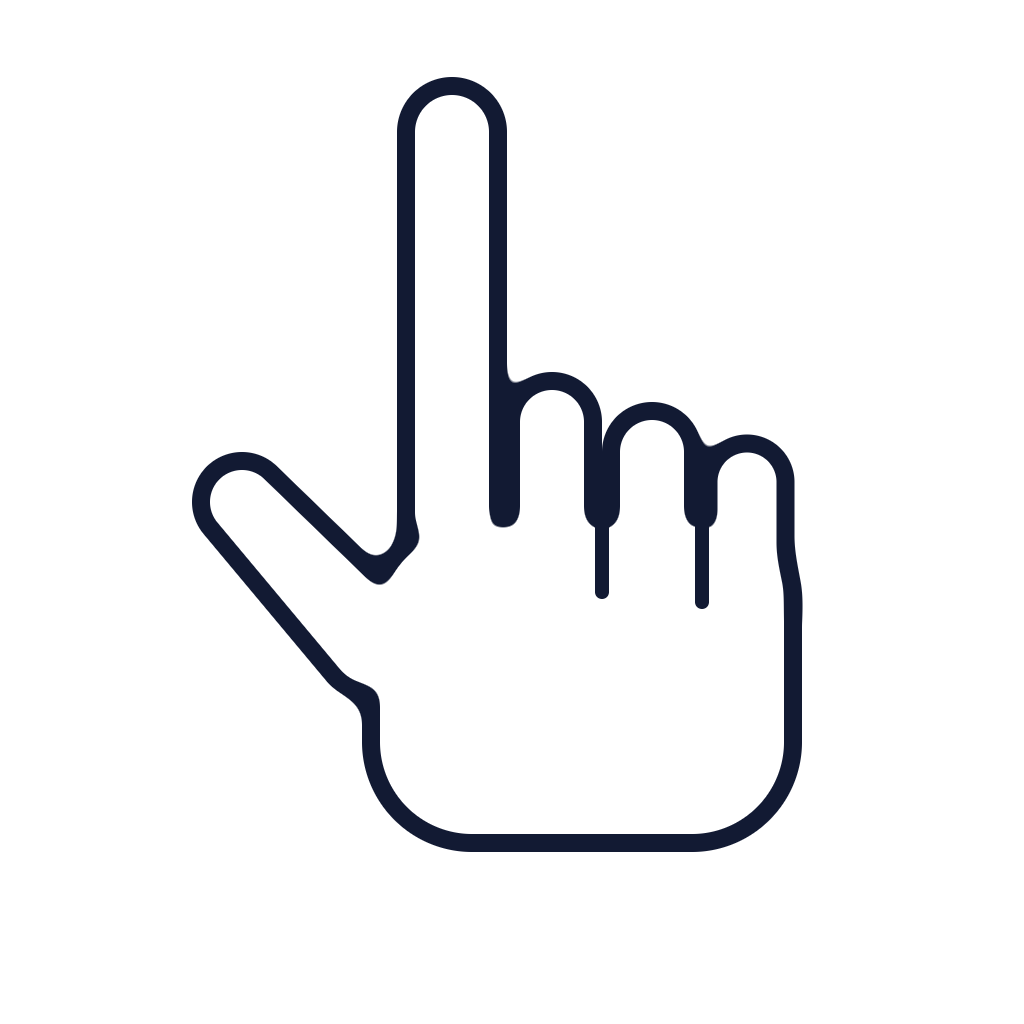
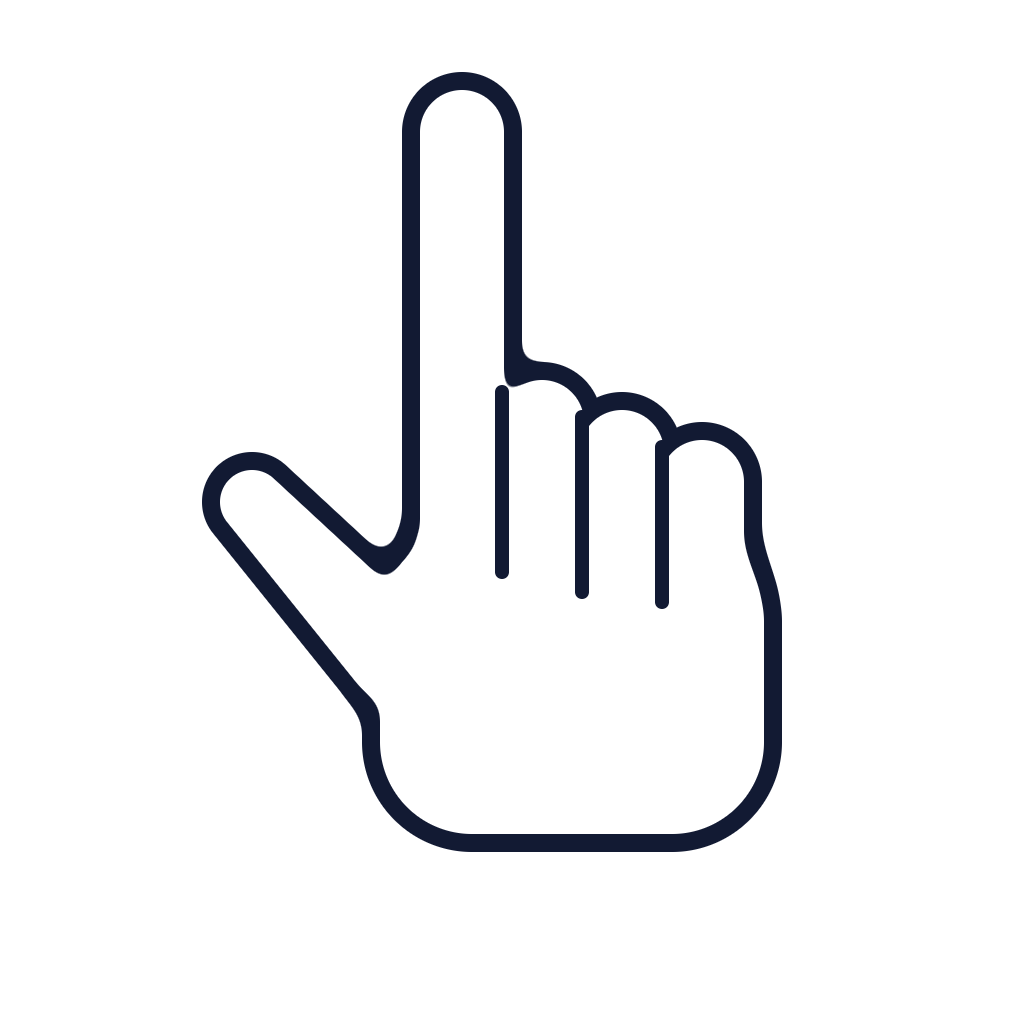
fix(library): overlap the cursor hand's fingers so their seams don't streak

Changed region(s): [[0.4375, 0.0625, 0.7812, 0.8438], [0.1875, 0.0938, 0.4375, 0.7188]]

diff --git a/scripts/gen-library.py b/scripts/gen-library.py
@@ -1486,11 +1486,13 @@ def subscribe():
 
 def cursor_hand():
     """A white pointing hand in a navy outline, as a cursor over a link: the index finger up, the others folded."""
-    hand = Union(Strokes([[(-60.0, -380.0), (-60.0, 0.0)]], 110.0),
-                 Strokes([[(40.0, -90.0), (40.0, 40.0)], [(140.0, -60.0), (140.0, 60.0)]], 100.0),
-                 Strokes([[(235.0, -30.0), (235.0, 70.0)]], 95.0),
-                 Box(70.0, 170.0, 220.0, 170.0, 110.0), Taper(-140.0, 130.0, 60.0, -270.0, -10.0, 50.0), k=24.0)
-    creases = Strokes([[(90.0, -40.0), (90.0, 80.0)], [(190.0, -10.0), (190.0, 90.0)]], 14.0)
+    # The fingers overlap by 40 px, deeper than the outline, so only the creases mark where they meet.
+    hand = Union(Strokes([[(-50.0, -380.0), (-50.0, 20.0)]], 120.0),
+                 Strokes([[(30.0, -90.0), (30.0, 40.0)], [(110.0, -60.0), (110.0, 60.0)],
+                          [(190.0, -30.0), (190.0, 70.0)]], 120.0),
+                 Box(60.0, 170.0, 210.0, 170.0, 110.0), Taper(-120.0, 140.0, 65.0, -260.0, -10.0, 50.0), k=24.0)
+    creases = Strokes([[(-10.0, -120.0), (-10.0, 60.0)], [(70.0, -95.0), (70.0, 80.0)],
+                       [(150.0, -65.0), (150.0, 90.0)]], 14.0)
     return outlined(hand, WHITE) + [(creases, 0.0, NAVY)]
 
 
